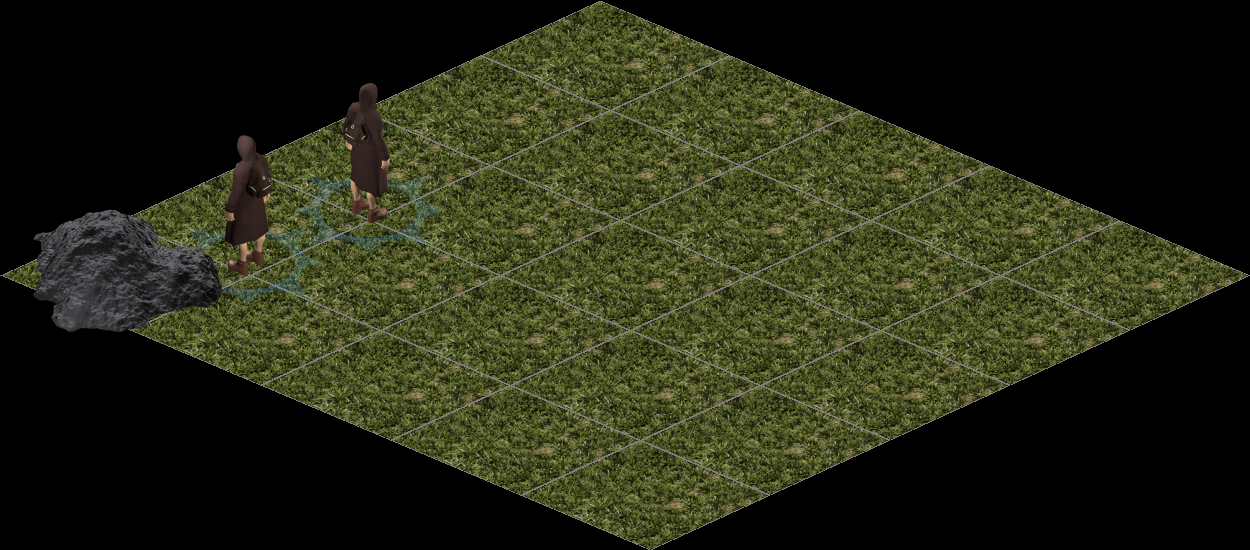
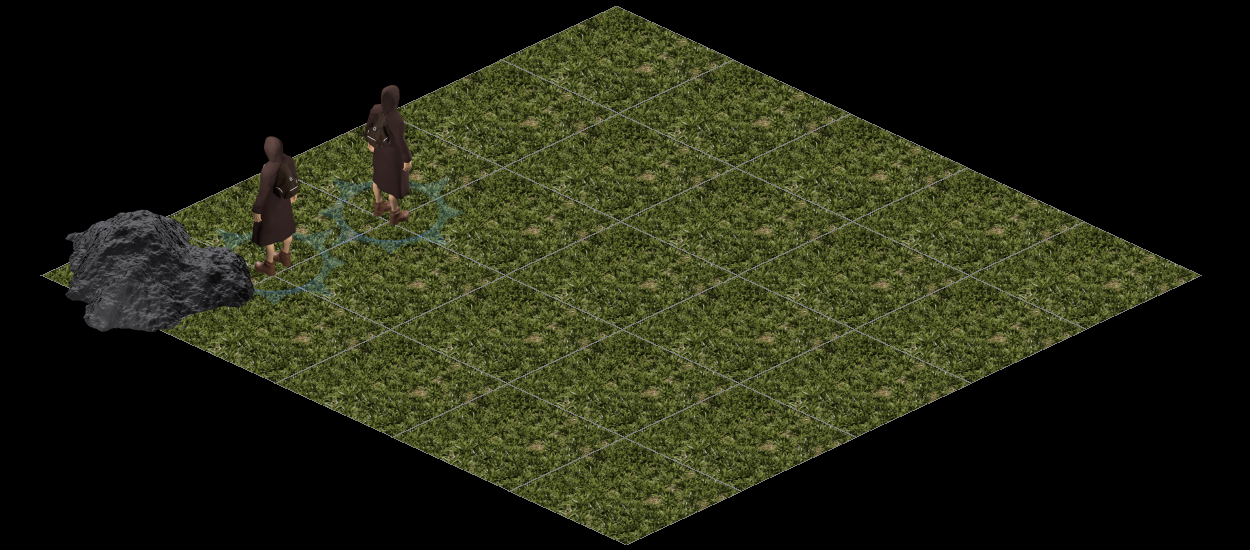
15:30 18.07.2021

diff --git a/src/MapGenerator/Picture/PictureCreator.java b/src/MapGenerator/Picture/PictureCreator.java
@@ -25,62 +25,29 @@ public class PictureCreator {
         return dimg;
     }
 
-    public File createMapPicture(Set<Image> images, MapData mapData){
+    public BufferedImage createMapPicture(Set<Image> images, MapData mapData){
         BufferedImage mapPicture = creatBufferedImage(mapData);
-
-        BufferedImage bufferedImage = null;
 
         try {
             createFirstLayer(mapPicture, mapData, images);
-            creatObjects(mapPicture, mapData, images);
         } catch (IOException e) {
             System.out.println("Problem with first layer creating");
             e.printStackTrace();
         }
 
-//        try {
-//            BufferedImage bufferedImage1 = ImageIO.read(new File("png\\7.png"));
-//            bufferedImage1 = resize(bufferedImage1, bufferedImage1.getWidth()/5, bufferedImage1.getHeight()/5);
-//            Image image = new Image(0, 0, 1, "png\\7.png");
-////            int x = (int) (image.getX() * mapData.getSizeUnitW()*12 + image.getY()*mapData.getSizeUnitW()*13) + mapData.getPixSizeCellW()/2-bufferedImage1.getWidth()/2;
-////            int y = (int) (mapPicture.getHeight()/10*5 + image.getY() * mapData.getSizeUnitH()*5.5f - image.getX()*mapData.getSizeUnitH()*5.5f  - bufferedImage1.getHeight()/2);
-////
-////            System.out.println(x + " " + y);
-//            addGrassToMap(mapPicture, bufferedImage1, image, mapData);
-//
-//        } catch (IOException e) {
-//            e.printStackTrace();
-//        }
+        creatObjects(mapPicture, mapData, images);
 
-//        try {
-//            BufferedImage bufferedImage1 = ImageIO.read(new File("png\\8.png"));
-//            bufferedImage1 = resize(bufferedImage1, bufferedImage1.getWidth()/5, bufferedImage1.getHeight()/5);
-//            addGrassToMap(mapPicture, bufferedImage1, new Image(2, 2, 1, "png\\8.png"), mapData);
-//
-//        } catch (IOException e) {
-//            e.printStackTrace();
-//        }
-//
-//        try {
-//            BufferedImage bufferedImage1 = ImageIO.read(new File("png\\9.png"));
-//            bufferedImage1 = resize(bufferedImage1, bufferedImage1.getWidth()/5, bufferedImage1.getHeight()/5);
-//            addGrassToMap(mapPicture, bufferedImage1, new Image(1, 1, 1, "png\\9.png"), mapData);
-//
-//        } catch (IOException e) {
-//            e.printStackTrace();
-//        }
+        mapPicture = createPictureFormat(mapPicture, mapData.getPixSizeX(), mapData.getPixSizeY());
 
-//        mapPicture = resize(mapPicture, mapPicture.getWidth()/3, mapPicture.getHeight()/3);
+        return mapPicture;
+    }
 
-        File file = new File("main.png");
+    private BufferedImage createPictureFormat(BufferedImage original, int xSize, int ySize){
+        BufferedImage result = new BufferedImage(xSize, ySize, original.getType());
+        Graphics2D graphics2D = (Graphics2D) result.getGraphics();
+        graphics2D.drawImage(original, result.getWidth()/2 - original.getWidth()/2, result.getHeight()/2 - original.getHeight()/2, null);
 
-        try {
-            ImageIO.write(mapPicture, "png", file);
-        } catch (IOException e) {
-            e.printStackTrace();
-        }
-
-        return file;
+        return result;
     }
 
     private void creatObjects(BufferedImage mapPicture, MapData mapData, Set<Image> images){
@@ -121,11 +88,12 @@ public class PictureCreator {
 
         Graphics2D graphics2D = (Graphics2D) mapPicture.getGraphics();
 
-//        int x = (int) (image.getX() * mapData.getSizeUnitW()*(mapData.getCellW()/2 + Configurations.curvatureX) + image.getY()*mapData.getSizeUnitW()*(mapData.getCellW()/2 - Configurations.curvatureX));
-//        int y = mapPicture.getHeight()/2 + image.getY() * mapData.getSizeUnitH()*3 - image.getX()*mapData.getSizeUnitH()*3 - addedImage.getHeight(null)/2;
+//        System.out.println(mapData.getSizeUnitW());
 
-        int x = (int) (image.getX() * mapData.getSizeUnitW()*12 + image.getY()*mapData.getSizeUnitW()*13) + mapData.getPixSizeCellW()/2-addedPicture.getWidth()/2;
-        int y = (int) (mapPicture.getHeight()/10*5 + image.getY() * mapData.getSizeUnitH()*5.5f - image.getX()*mapData.getSizeUnitH()*5.5f - addedPicture.getHeight()/2);
+        //почему это работает правильно науке пока что не известно
+        int x = (int) (image.getX() * (mapData.getSizeUnitW()*13 -2) + image.getY()*mapData.getSizeUnitW()*13 + mapData.getPixSizeCellW()/2.0-addedPicture.getWidth()/2.0);
+        int y = (int) (mapPicture.getHeight()/10*5 + image.getY() * mapData.getSizeUnitH()*6 - (image.getX()*(mapData.getSizeUnitH()*6)) - addedPicture.getHeight()/2);
+
 
         graphics2D.drawImage(addedImage, x, y, null);
     }
@@ -139,12 +107,6 @@ public class PictureCreator {
 
         createMaskZones(addedPicture, mapData);
 
-        try {
-            ImageIO.write(addedPicture, "png", new File("ggg.png"));
-        } catch (IOException e) {
-            e.printStackTrace();
-        }
-
         return addedPicture;
     }
 
@@ -153,31 +115,31 @@ public class PictureCreator {
 
         graphics2D.setColor(Configurations.bordersColor);
 
-        graphics2D.fill(new Polygon(new int[]{0, (int) (mapData.getPixSizeCellW()/Configurations.mapFormatX*(mapData.getCellW()/2.0+Configurations.curvatureX)), (int) (mapData.getPixSizeCellW()/Configurations.mapFormatX*(mapData.getCellW()/2.0+Configurations.curvatureX) + Configurations.borderSize), Configurations.borderSize},
+        graphics2D.fill(new Polygon(new int[]{0, (int) (addedPicture.getWidth()/2+Configurations.curvatureX), (int) ((addedPicture.getWidth()/2+Configurations.curvatureX) + Configurations.borderSize), Configurations.borderSize},
                 new int[]{(int)(addedPicture.getHeight()/2 - Configurations.curvatureY) , 0, 0, (int)(addedPicture.getHeight()/2 - Configurations.curvatureY) }, 4));
-        graphics2D.fill(new Polygon(new int[]{0, (int) (mapData.getPixSizeCellW()/Configurations.mapFormatX*(mapData.getCellW()/2.0 - Configurations.curvatureX)), (int) (mapData.getPixSizeCellW()/Configurations.mapFormatX*(mapData.getCellW()/2.0 - Configurations.curvatureX) + Configurations.borderSize), Configurations.borderSize},
+        graphics2D.fill(new Polygon(new int[]{0, (int) (addedPicture.getWidth()/2 - Configurations.curvatureX), (int) ((addedPicture.getWidth()/2 - Configurations.curvatureX) + Configurations.borderSize), Configurations.borderSize},
                 new int[]{(int)(addedPicture.getHeight()/2 - Configurations.curvatureY) , addedPicture.getHeight(), addedPicture.getHeight(), (int)(addedPicture.getHeight()/2 - Configurations.curvatureY)}, 4));
-        graphics2D.fill(new Polygon(new int[]{(int) (mapData.getPixSizeCellW()/Configurations.mapFormatX*(mapData.getCellW()/2.0+Configurations.curvatureX)) -Configurations.borderSize, (int) (mapData.getPixSizeCellW()/Configurations.mapFormatX*(mapData.getCellW()/2.0+Configurations.curvatureX)), addedPicture.getWidth(), addedPicture.getWidth()-Configurations.borderSize},
+        graphics2D.fill(new Polygon(new int[]{(int) (addedPicture.getWidth()/2+Configurations.curvatureX) -Configurations.borderSize, (int) (addedPicture.getWidth()/2+Configurations.curvatureX), addedPicture.getWidth(), addedPicture.getWidth()-Configurations.borderSize},
                 new int[]{0 , 0, (int)(addedPicture.getHeight()/2 - Configurations.curvatureY) , (int)(addedPicture.getHeight()/2 - Configurations.curvatureY) }, 4));
-        graphics2D.fill(new Polygon(new int[]{(int) (mapData.getPixSizeCellW()/Configurations.mapFormatX*(mapData.getCellW()/2.0 - Configurations.curvatureX)) - Configurations.borderSize, (int) (mapData.getPixSizeCellW()/Configurations.mapFormatX*(mapData.getCellW()/2.0 - Configurations.curvatureX)), addedPicture.getWidth(), addedPicture.getWidth()-Configurations.borderSize},
+        graphics2D.fill(new Polygon(new int[]{(int) (addedPicture.getWidth()/2 - Configurations.curvatureX) - Configurations.borderSize, (int) (addedPicture.getWidth()/2 - Configurations.curvatureX), addedPicture.getWidth(), addedPicture.getWidth()-Configurations.borderSize},
                 new int[]{addedPicture.getHeight() , addedPicture.getHeight(), (int)(addedPicture.getHeight()/2 - Configurations.curvatureY), (int)(addedPicture.getHeight()/2 - Configurations.curvatureY)}, 4));
-        
+
     }
 
     private void createMaskZones(BufferedImage addedPicture, MapData mapData){
         Graphics2D graphics2D = (Graphics2D) addedPicture.getGraphics();
 
         graphics2D.setColor(Configurations.maskColor);
-        Shape shape = new Polygon(new int[]{0, 0, (int) (mapData.getPixSizeCellW()/Configurations.mapFormatX*(mapData.getCellW()/2.0+Configurations.curvatureX))},
+        Shape shape = new Polygon(new int[]{0, 0, (int) (addedPicture.getWidth()/2+Configurations.curvatureX)},
                 new int[]{0, (int)(addedPicture.getHeight()/2 - Configurations.curvatureY), 0}, 3);
         graphics2D.fill(shape);
-        shape = new Polygon(new int[]{0, 0, (int) (mapData.getPixSizeCellW()/Configurations.mapFormatX*(mapData.getCellW()/2.0 - Configurations.curvatureX))},
+        shape = new Polygon(new int[]{0, 0, (int) (addedPicture.getWidth()/2 - Configurations.curvatureX)},
                 new int[]{addedPicture.getHeight(), (int)(addedPicture.getHeight()/2 - Configurations.curvatureY), addedPicture.getHeight()}, 3);
         graphics2D.fill(shape);
-        shape = new Polygon(new int[]{addedPicture.getWidth(), addedPicture.getWidth(), (int) (mapData.getPixSizeCellW()/Configurations.mapFormatX*(mapData.getCellW()/2.0+Configurations.curvatureX))},
+        shape = new Polygon(new int[]{addedPicture.getWidth(), addedPicture.getWidth(), (int) (addedPicture.getWidth()/2+Configurations.curvatureX)},
                 new int[]{0, (int)(addedPicture.getHeight()/2 - Configurations.curvatureY), 0}, 3);
         graphics2D.fill(shape);
-        shape = new Polygon(new int[]{addedPicture.getWidth(), addedPicture.getWidth(), (int) (mapData.getPixSizeCellW()/Configurations.mapFormatX*(mapData.getCellW()/2.0 - Configurations.curvatureX))},
+        shape = new Polygon(new int[]{addedPicture.getWidth(), addedPicture.getWidth(), (int) (addedPicture.getWidth()/2 - Configurations.curvatureX)},
                 new int[]{addedPicture.getHeight(), (int)(addedPicture.getHeight()/2 - Configurations.curvatureY), addedPicture.getHeight()}, 3);
         graphics2D.fill(shape);
     }

diff --git a/src/MapGenerator/MapAnalysis/MapAnalyzer.java b/src/MapGenerator/MapAnalysis/MapAnalyzer.java
@@ -23,14 +23,40 @@ public class MapAnalyzer {
             outMapData.setNeedFinishResize(true);
         }
 
-        outMapData.setSizeUnitW(pixSizeX/(meshSizeX*Configurations.mapFormatX));
-        outMapData.setSizeUnitH(pixSizeY/(mashSizeY*Configurations.mapFormatY));
+//        outMapData.setSizeUnitW(pixSizeX/(meshSizeX*Configurations.mapFormatX));
+//        outMapData.setSizeUnitH(pixSizeY/(mashSizeY*Configurations.mapFormatY));
 
-        outMapData.setCellW(pixSizeX/(meshSizeX*outMapData.getSizeUnitW()));
-        outMapData.setCellH(pixSizeY/(mashSizeY*outMapData.getSizeUnitH()));
+//        pixSizeX = closestResolution(pixSizeX, Configurations.mapFormatX);
+//        pixSizeY = closestResolution(pixSizeY, Configurations.mapFormatY);
+
+        System.out.println(pixSizeX + " " + pixSizeY);
+
+        if(pixSizeX/(meshSizeX*Configurations.mapFormatX) > pixSizeY/(mashSizeY*Configurations.mapFormatY)){
+            outMapData.setSizeUnitW(pixSizeY/(mashSizeY*Configurations.mapFormatY));
+            outMapData.setSizeUnitH(pixSizeY/(mashSizeY*Configurations.mapFormatY));
+        }
+        else {
+            outMapData.setSizeUnitW(pixSizeX/(meshSizeX*Configurations.mapFormatX));
+            outMapData.setSizeUnitH(pixSizeX/(meshSizeX*Configurations.mapFormatX));
+        }
+
+//        outMapData.setCellW(pixSizeX/(meshSizeX*outMapData.getSizeUnitW()));
+//        outMapData.setCellH(pixSizeY/(mashSizeY*outMapData.getSizeUnitH()));
+
+        outMapData.setCellW(Configurations.mapFormatX);
+        outMapData.setCellH(Configurations.mapFormatY);
 
         outMapData.createPixSizeCell();
 
+    }
+
+    private int closestResolution(int sizeX, int sizeInUnits){
+        for(int i = sizeX; i > 0; i--){
+            if((i%sizeInUnits == 0) & (i/sizeInUnits%2 == 0)){
+                return i;
+            }
+        }
+        return 0;
     }
 
     private void findMaxSizes(Set<Image> images, MapData outMapData){

diff --git a/src/MapGenerator/MapGenerator.java b/src/MapGenerator/MapGenerator.java
@@ -7,9 +7,12 @@ import MapGenerator.MapAnalysis.MapAnalyzer;
 import MapGenerator.MapAnalysis.MapData;
 import MapGenerator.Picture.PictureCreator;
 
+import javax.imageio.ImageIO;
+import java.awt.image.BufferedImage;
 import java.io.BufferedReader;
 import java.io.File;
 import java.io.FileReader;
+import java.io.IOException;
 import java.util.Set;
 
 public class MapGenerator {
@@ -42,9 +45,6 @@ public class MapGenerator {
 
     public File generateMap(String jSON, int pixSizeX, int pixSizeY){
 
-        pixSizeX = 1250;
-        pixSizeY = 550;
-
         JSONEditor jsonEditor = new JSONEditor();
         Set<Image> images = jsonEditor.createImagesArray(jSON);
 
@@ -55,7 +55,15 @@ public class MapGenerator {
         mapData.setPixSizeY(pixSizeY);
 
         PictureCreator pictureCreator = new PictureCreator();
-        File mapPictureFile = pictureCreator.createMapPicture(images, mapData);
+        BufferedImage mapPicture = pictureCreator.createMapPicture(images, mapData);
+
+        File mapPictureFile = new File("main.png");
+
+        try {
+            ImageIO.write(mapPicture, "png", mapPictureFile);
+        } catch (IOException e) {
+            e.printStackTrace();
+        }
 
         return mapPictureFile;
     }

diff --git a/src/MapGenerator/Configurations.java b/src/MapGenerator/Configurations.java
@@ -16,10 +16,10 @@ public class Configurations {
     public static Color bordersColor = Color.GRAY;
     public static int borderSize = 2;
 
-    public static int mapFormatX = 25;
-    public static int mapFormatY = 11;
+    public static int mapFormatX = 26;
+    public static int mapFormatY = 12;
 
-    public static float curvatureX = -0.5f;        //съезд относительно ровного ромба в сторону
+    public static float curvatureX = -1;        //съезд относительно ровного ромба в сторону
     public static float curvatureY = 0;   //съезд относительно ровного ромба в сторону
 
     public static Color maskColor = Color.WHITE;
